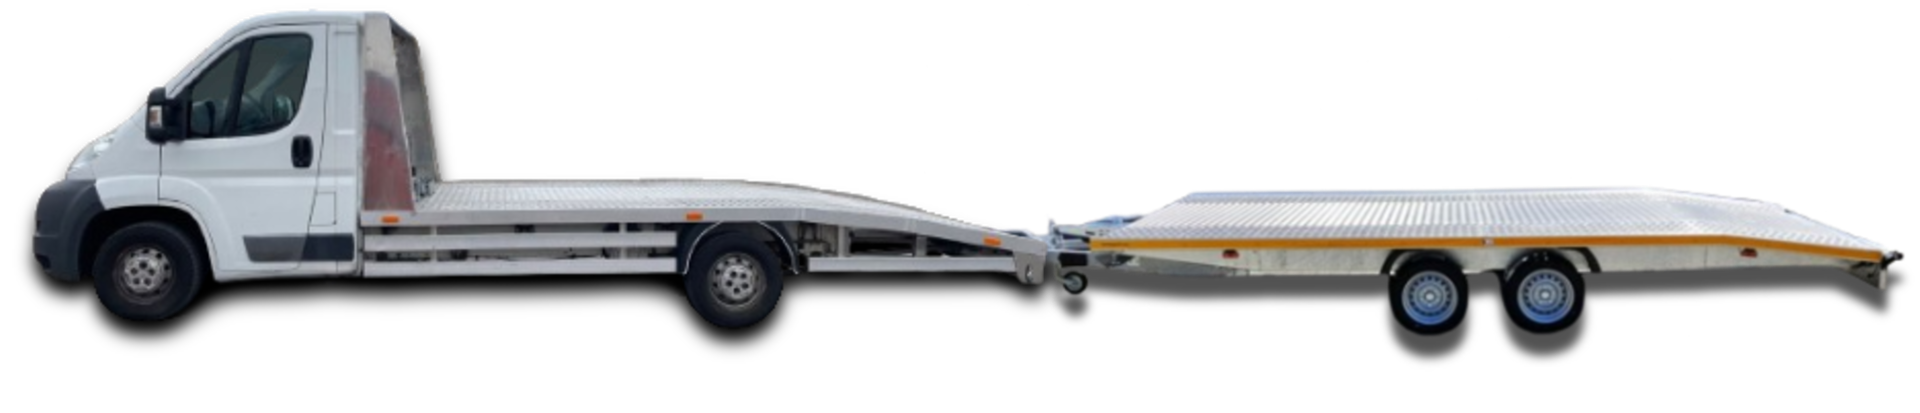
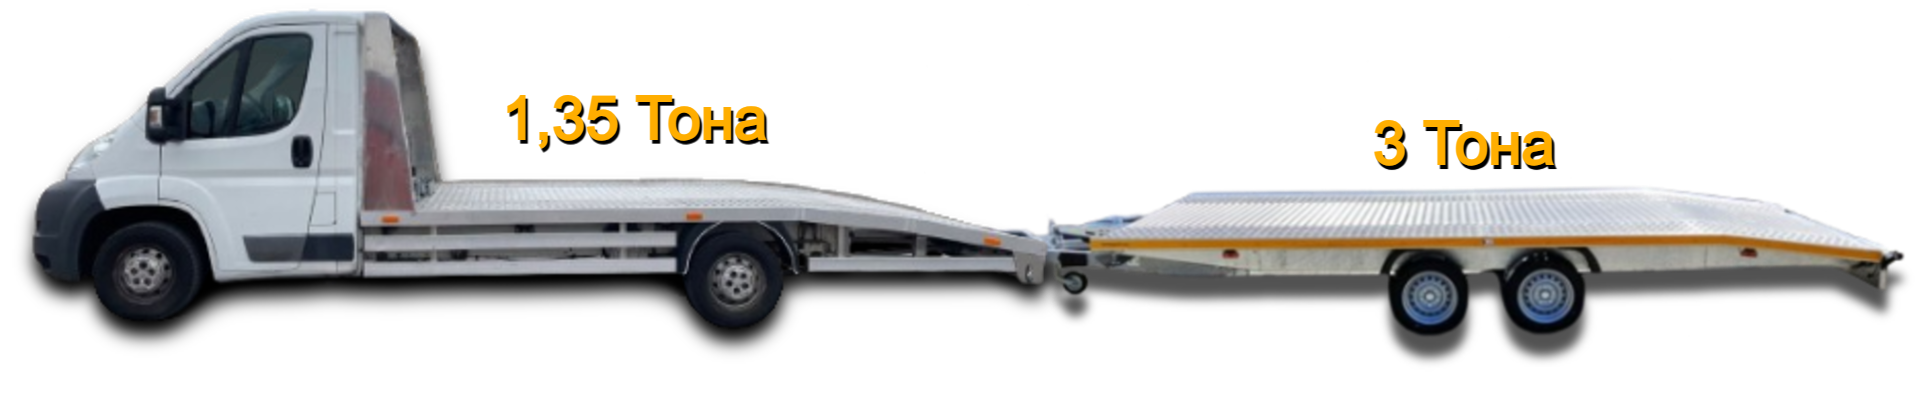
Transpoer services ok

Changed region(s): [[0.25, 0.2324, 0.4062, 0.3777], [0.7188, 0.2906, 0.8125, 0.4068]]

diff --git a/static/js/views/About.js b/static/js/views/About.js
@@ -72,7 +72,7 @@ export async function getHtmlAsync() {
        <hr class="hr-orange"> 
        <span><img src="static/img/icons/description.png"><b>Описание:</b> 
        </br>
-       1. Занимаваме се с продажба на каравани, ремаркета, коли, бусове, скутери, екипировка за каравани, миялни машини, перални, печки, хладилници - продукти - Нов Внос от Дания. 
+       1. Занимаваме се с продажба на каравани, ремаркета, коли, бусове, скутери, екипировка за каравани, миялни машини, перални, печки, хладилници, гуми, джанти - нови и втора употреба - продукти - Нов Внос от Дания. 
        </br>
        </br>
        2. Изпълняваме и поръчки за внос на каравани и др. от Дания. 

diff --git a/static/js/views/TransportService.js b/static/js/views/TransportService.js
@@ -10,10 +10,9 @@ export async function getHtmlAsync() {
 
     <img class="transport-service-img" src="static/img/recovery-truck-and-trailer.png" />
     </br>
-    <p>Транспорт на Автомобили до 3 тона, на  репатрак и до 1,5 тона на пътната помощ.</p>
+    <p class="transport-service-details">Транспорт на Автомобили до <b><u>1,35 тона</u></b>, на пътната помощ и до <b><u>3 Тона</u></b> на репатрак.</p>
     </br>
     <p class="contact-information">Ако преглеждате сайта от телефон, натиснете върху дадения телефон за да звъннете, автоматично.</p>
-    </br>
     <div class="about">${phoneViberNumberInfoHtml(db.phone, db.viberPhone)}</div>
     <hr>
     `;
